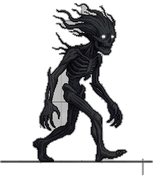
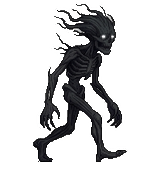
Clean the hero's walk frames and fix the standing pose
Remove the grey patch between arm and body and the ground line from the
four walk frames, replace the standing frame (its feet were cropped off)
with the standing pose from main_sprite.png, and stand every pose's feet
on the same line by measuring each frame's empty space under the feet.

diff --git a/index.html b/index.html
@@ -1092,17 +1092,35 @@
   // that repeats along the ground (the parts outside it taper)
   var ROCK_ENDS = [85, 618], ROCK_MID = [160, 560];
 
+  // Each frame has a different amount of empty space under the feet, so the
+  // feet would land at different heights. feetPad measures it (source px,
+  // from the lowest row with a few solid pixels, ignoring any full-width
+  // line) so drawPlayer can stand every frame on the same line.
+  function feetPad(im){
+    try {
+      var c = document.createElement("canvas"); c.width = im.naturalWidth; c.height = im.naturalHeight;
+      var g = c.getContext("2d"); g.drawImage(im, 0, 0);
+      var d = g.getImageData(0, 0, c.width, c.height).data;
+      for (var y = c.height - 1; y >= 0; y--){
+        var n = 0;
+        for (var x = 0; x < c.width; x++) if (d[(y * c.width + x) * 4 + 3] > 150) n++;
+        if (n >= 3 && n < c.width * 0.8) return c.height - 1 - y;
+      }
+    } catch(e){}
+    return 0;
+  }
+
   // Player character sprites (shadow-creature artwork). The art faces LEFT natively;
   // we mirror it when the player faces right. Draw size = naturalWidth/2, naturalHeight/2
   // (bitmaps are saved at 2x for crispness).
   var PLAYER_SPRITES = {};
   (function(){
     var sources = {
-      walk0:   "assets/player_walk0.png",
-      walk2:   "assets/player_walk2.png",
-      walk4:   "assets/player_walk4.png",
-      walk6:   "assets/player_walk6.png",
-      idle:    "assets/player_idle.png",
+      walk0:   "assets/player_walk0.png?v=2",
+      walk2:   "assets/player_walk2.png?v=2",
+      walk4:   "assets/player_walk4.png?v=2",
+      walk6:   "assets/player_walk6.png?v=2",
+      idle:    "assets/player_idle.png?v=2",   // standing pose from main_sprite.png
       jump:    "assets/player_jump.png",
       attack0: "assets/player_attack0.png",
       attack4: "assets/player_attack4.png",
@@ -1112,7 +1130,7 @@
     Object.keys(sources).forEach(function(key){
       var im = new Image();
       im.ready = false;
-      im.onload = function(){ im.ready = true; };
+      im.onload = function(){ im.padB = feetPad(im); im.ready = true; };
       im.src = sources[key];
       PLAYER_SPRITES[key] = im;
     });
@@ -1136,7 +1154,7 @@
     Object.keys(sources).forEach(function(key){
       var im = new Image();
       im.ready = false;
-      im.onload = function(){ im.ready = true; };
+      im.onload = function(){ im.padB = feetPad(im); im.ready = true; };
       im.src = sources[key];
       FIRE_SPRITES[key] = im;
     });
@@ -4729,6 +4747,7 @@
   // Most cropped frames face left natively; the reach/attack row (and the crawl death
   // frame cropped from it) was drawn facing right instead, so it needs the opposite flip.
   var SPRITE_FACES_RIGHT = {
+    idle: true,                       // the standing pose from main_sprite.png faces right
     attack0: true, attack4: true, death: true,
     walk0: true, walk2: true, walk4: true, walk6: true, jump: true
   };
@@ -4742,6 +4761,7 @@
     walk0: true, walk2: true, walk4: true, walk6: true, jump: true
   };
 
+  var PLAYER_FOOT_LIFT = 7;   // display px between the hitbox bottom and the feet
   function drawPlayer(){
     var sx = player.x - camX;
     var blink = player.invuln > 0 && player.invuln <= 50 && Math.floor(player.invuln/4) % 2 === 0;
@@ -4763,7 +4783,10 @@
       var nativeRight = !!facesRight[key];
       var wantRight = player.facing === 1;
       if (wantRight !== nativeRight) ctx.scale(-1, 1);
-      ctx.drawImage(img, -dW/2, -dH, dW, dH);
+      // stand the feet on one line for every frame: the walk frames looked
+      // right with their feet ~7px above the hitbox bottom, so all frames use that
+      var lift = (img.padB || 0) / 2 - PLAYER_FOOT_LIFT;
+      ctx.drawImage(img, -dW/2, -dH + lift, dW, dH);
     } else {
       // fallback silhouette while sprites decode
       ctx.fillStyle = "#1b1f2a";
